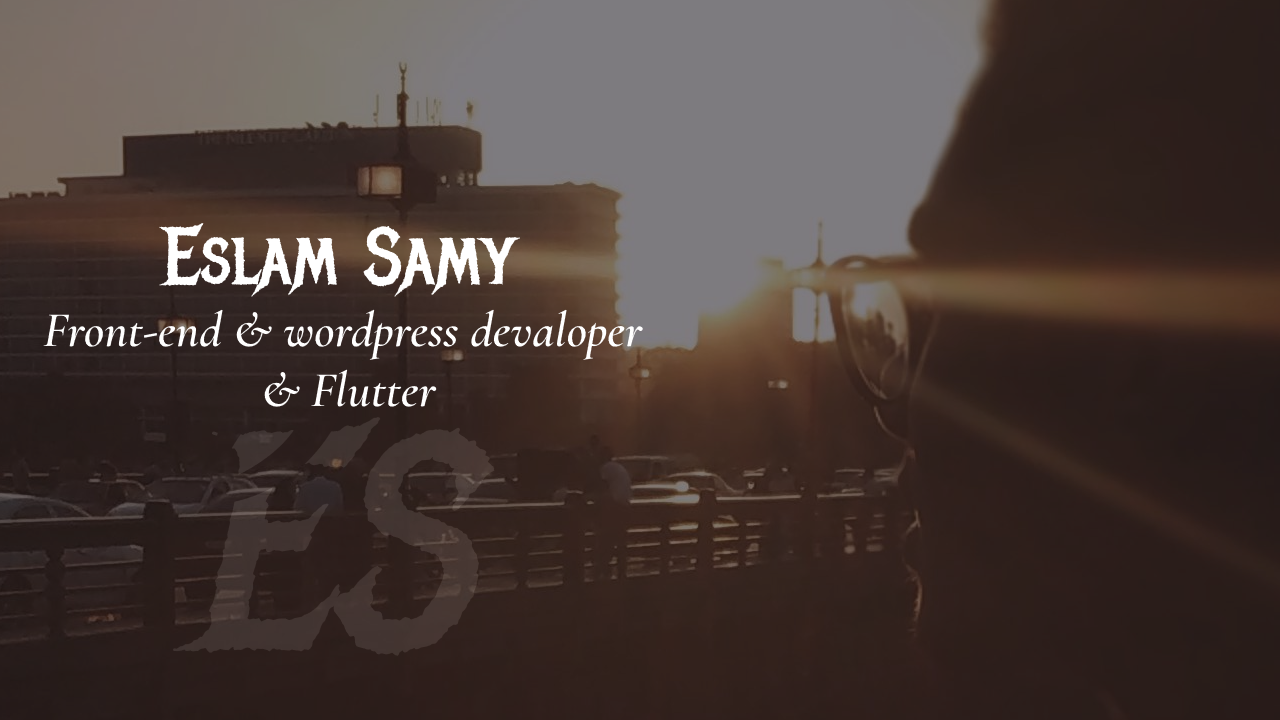
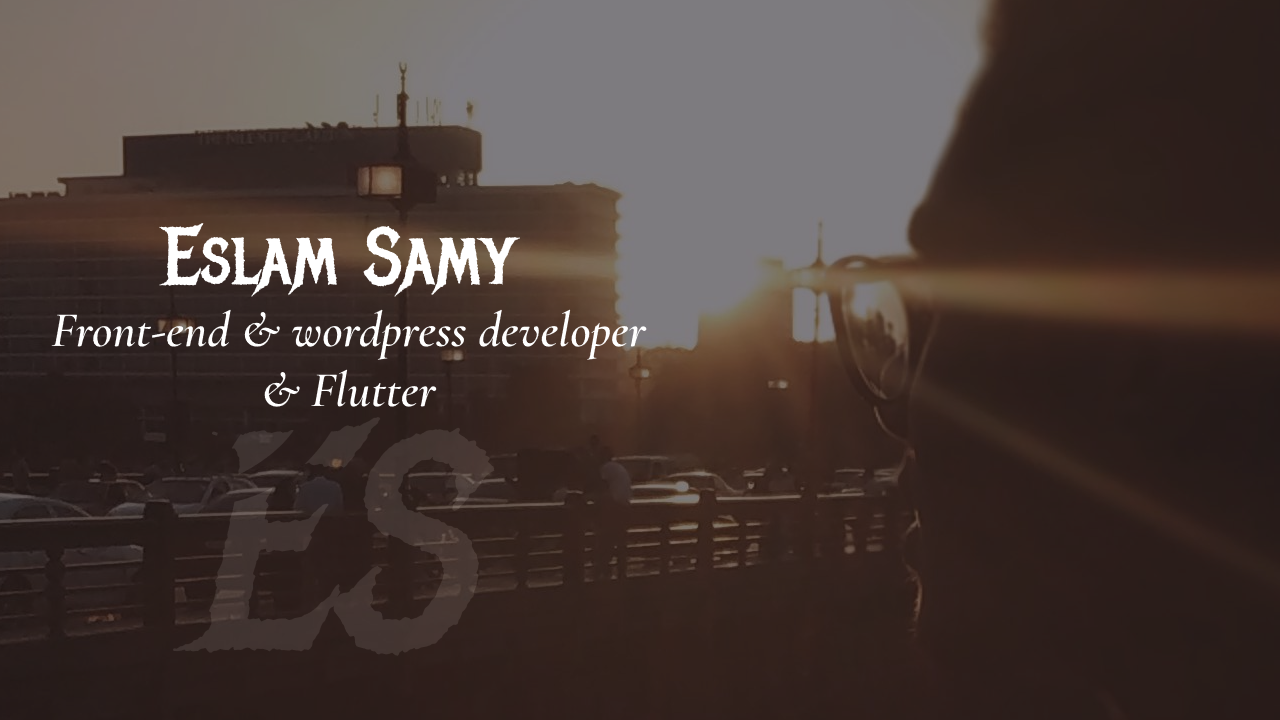
update
update

Changed region(s): [[0.0312, 0.4278, 0.5, 0.4889]]

diff --git a/README.md b/README.md
@@ -3,8 +3,7 @@
 <img src="template.png" alt="template.png" width="100%" height="350px">
 
 <!--
-**EslamSamy5/EslamSamy5** is a ✨ _special_ ✨ repository because its `README.md` (this file) appears on your GitHub profile.
-
+I'm a Front-end , wordpress developer & also Flutter developer i love to spend hours codding most of my work on Github repositories for the front end and the wordpress on live server and also i working with C++ and i enjoy it
 Here are some ideas to get you started:
 
 - 🔭 I’m currently working on ...
